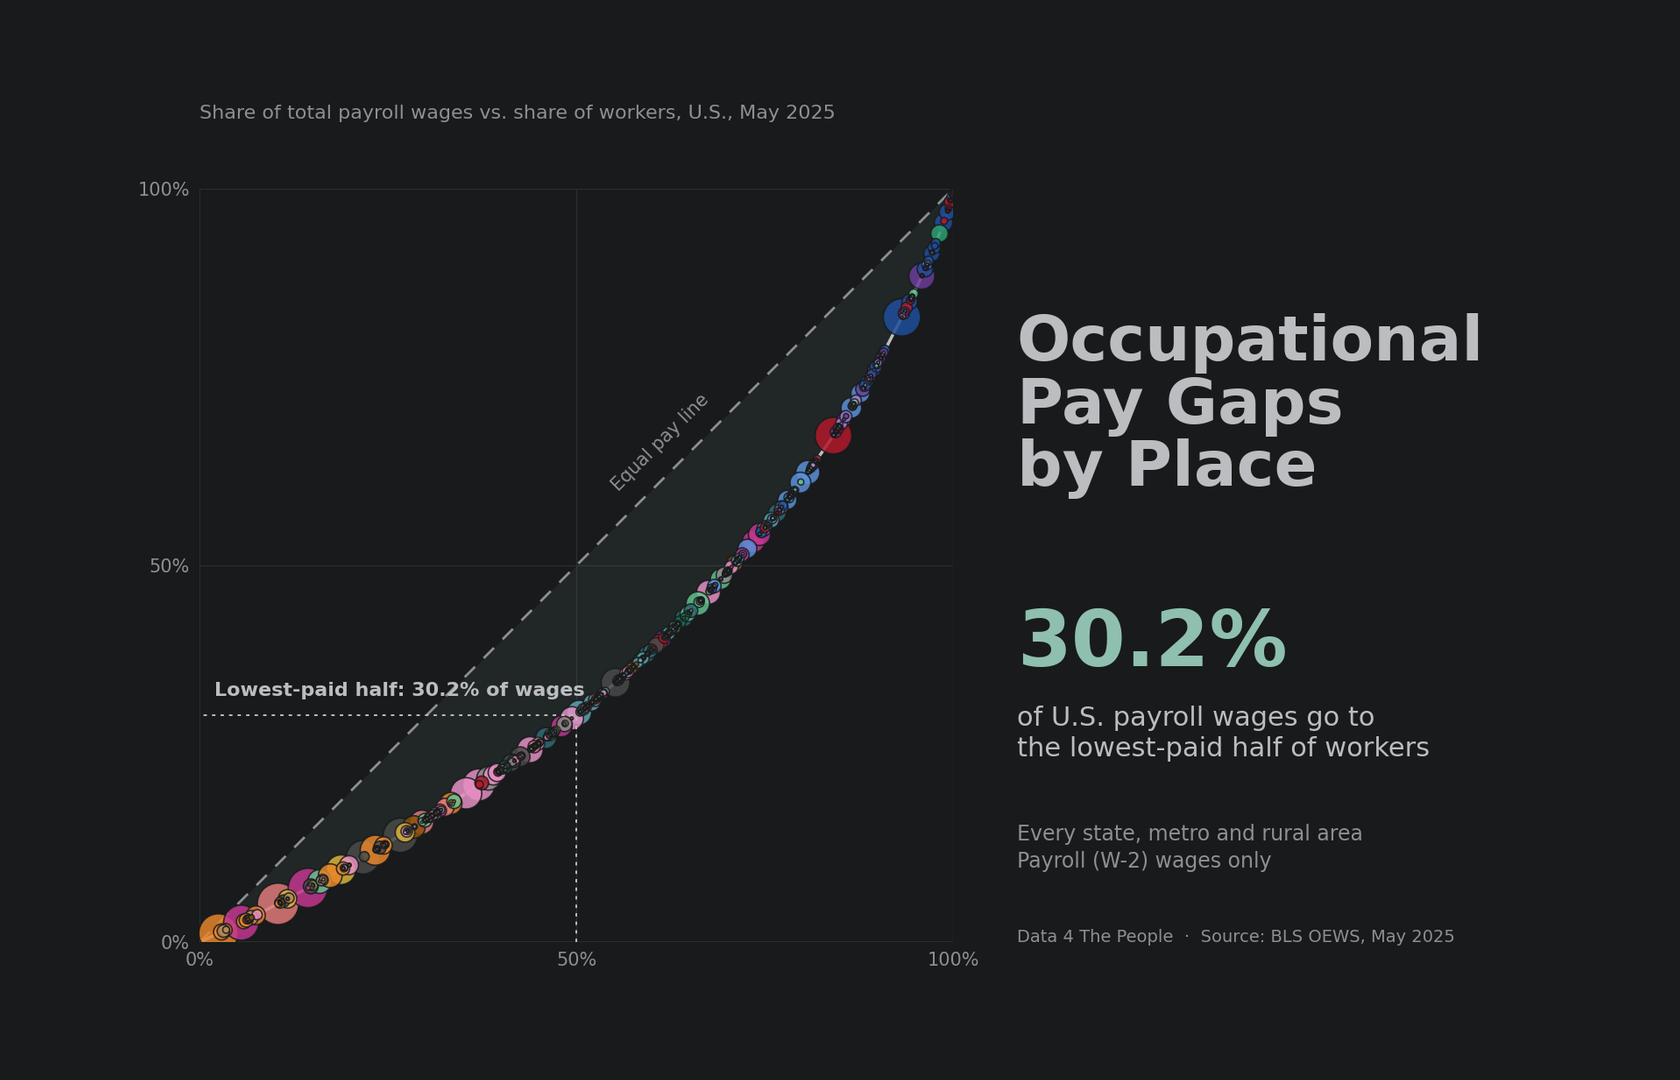
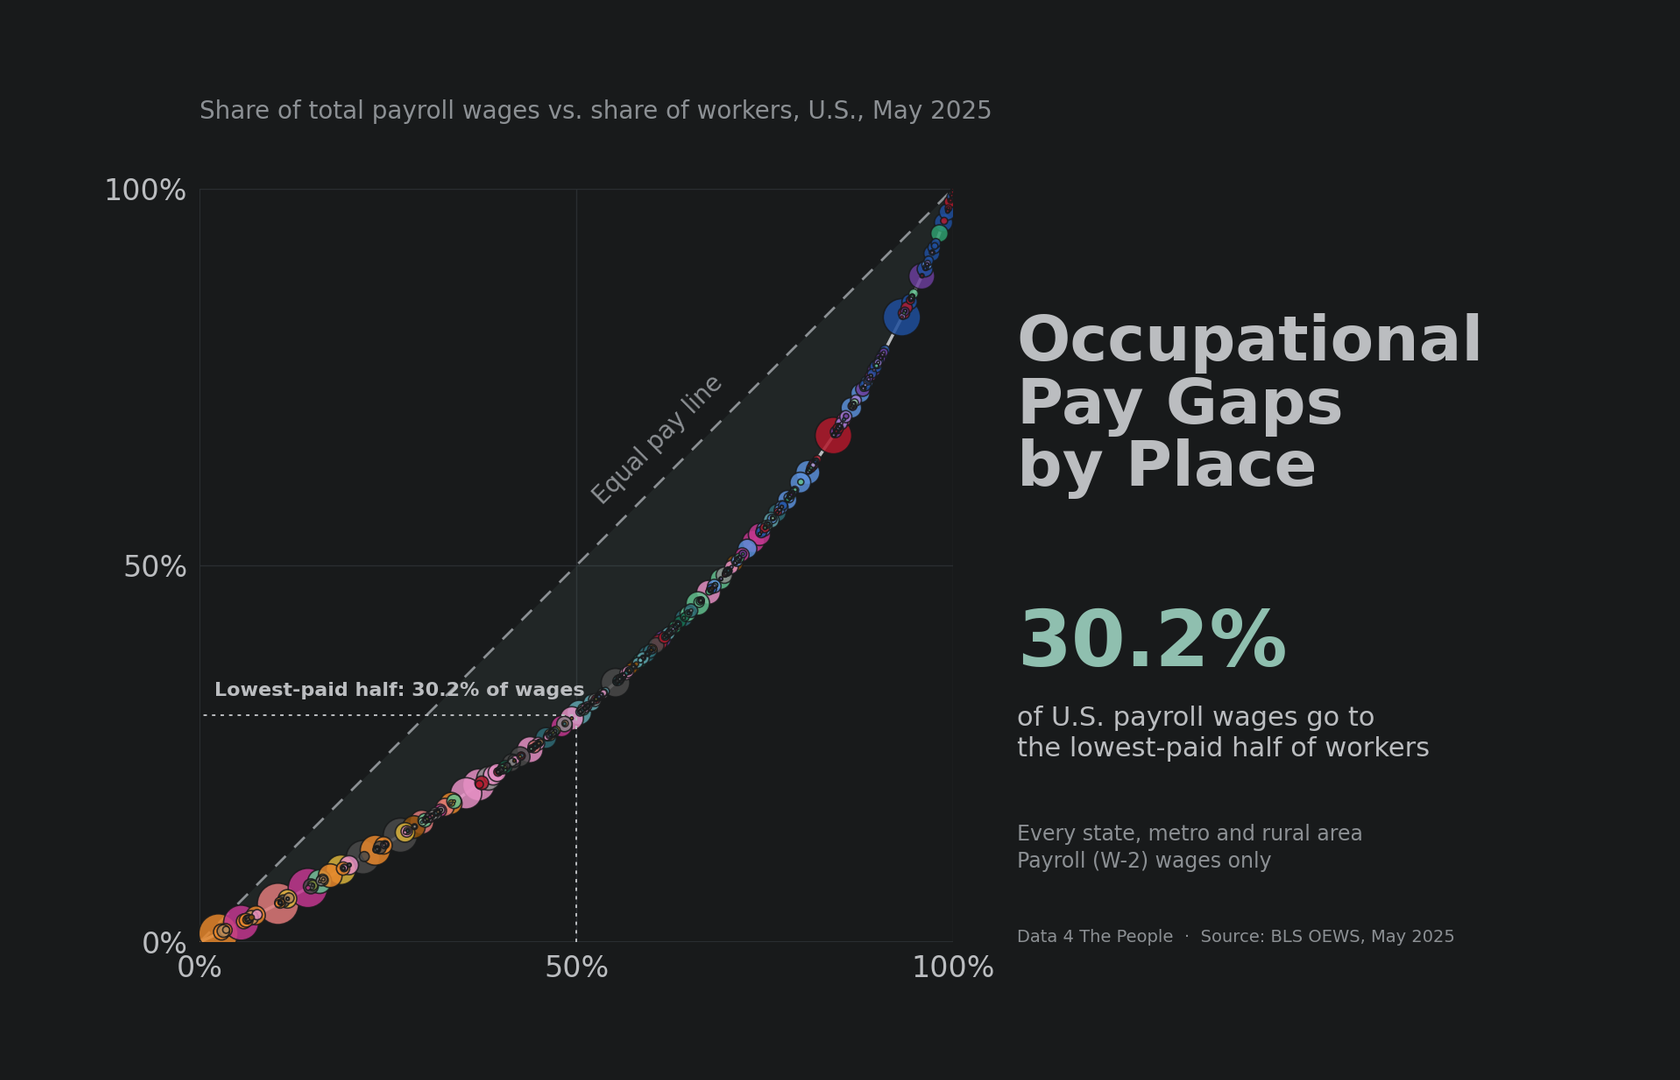
lorenz-chart-viz: hero axis labels larger

diff --git a/scripts/11_hero.py b/scripts/11_hero.py
@@ -40,11 +40,11 @@ for v in (0.5, 1):
     ax.plot([v, v], [0, 1], color=GRID, lw=1, zorder=0); ax.plot([0, 1], [v, v], color=GRID, lw=1, zorder=0)
 ax.plot([0, 1], [0, 0], color=GRID, lw=1.5, zorder=0); ax.plot([0, 0], [0, 1], color=GRID, lw=1.5, zorder=0)
 ax.set_xticks([0, .5, 1]); ax.set_yticks([0, .5, 1])
-ax.set_xticklabels(["0%", "50%", "100%"], fontsize=15, color=MUTED); ax.set_yticklabels(["0%", "50%", "100%"], fontsize=15, color=MUTED)
-ax.tick_params(length=0, pad=8)
+ax.set_xticklabels(["0%", "50%", "100%"], fontsize=24, color=INK); ax.set_yticklabels(["0%", "50%", "100%"], fontsize=24, color=INK)
+ax.tick_params(length=0, pad=10)
 ax.fill_between(np.r_[0, x], np.r_[0, x], np.r_[0, y], color="#8FBFAF", alpha=0.08, lw=0, zorder=1)
 ax.plot([0, 1], [0, 1], ls=(0, (6, 5)), color=MUTED, lw=2, zorder=2)
-ax.text(0.62, 0.655, "Equal pay line", rotation=45, rotation_mode="anchor", color=MUTED, fontsize=15, ha="center", va="bottom")
+ax.text(0.62, 0.655, "Equal pay line", rotation=45, rotation_mode="anchor", color=MUTED, fontsize=20, ha="center", va="bottom")
 ax.plot(np.r_[0, x], np.r_[0, y], color=INK, lw=2.5, zorder=3)
 share = e / e.sum()
 r = 34 * np.sqrt(share / share.max())                   # points, largest bubble ~34 pt radius
@@ -54,7 +54,7 @@ ax.scatter(x[order], y[order], s=(np.maximum(r[order], 2.2)) ** 2, c=[cols[i] fo
            edgecolors=BG, linewidths=1.2, zorder=4)
 ax.plot([0.5, 0.5, 0], [0, half, half], ls=(0, (2, 3)), color=INK, lw=1.4, zorder=5)
 ax.text(0.02, half + 0.025, f"Lowest-paid half: {half*100:.1f}% of wages", color=INK, fontsize=16, fontweight="bold", zorder=6)
-fig.text(0.065, 0.945, "Share of total payroll wages vs. share of workers, U.S., May 2025", fontsize=16, color=MUTED)
+fig.text(0.065, 0.945, "Share of total payroll wages vs. share of workers, U.S., May 2025", fontsize=20, color=MUTED)
 
 tx = 0.62
 fig.text(tx, 0.74, "Occupational\nPay Gaps\nby Place", fontsize=52, fontweight="bold", color=INK, va="top", linespacing=1.05)
